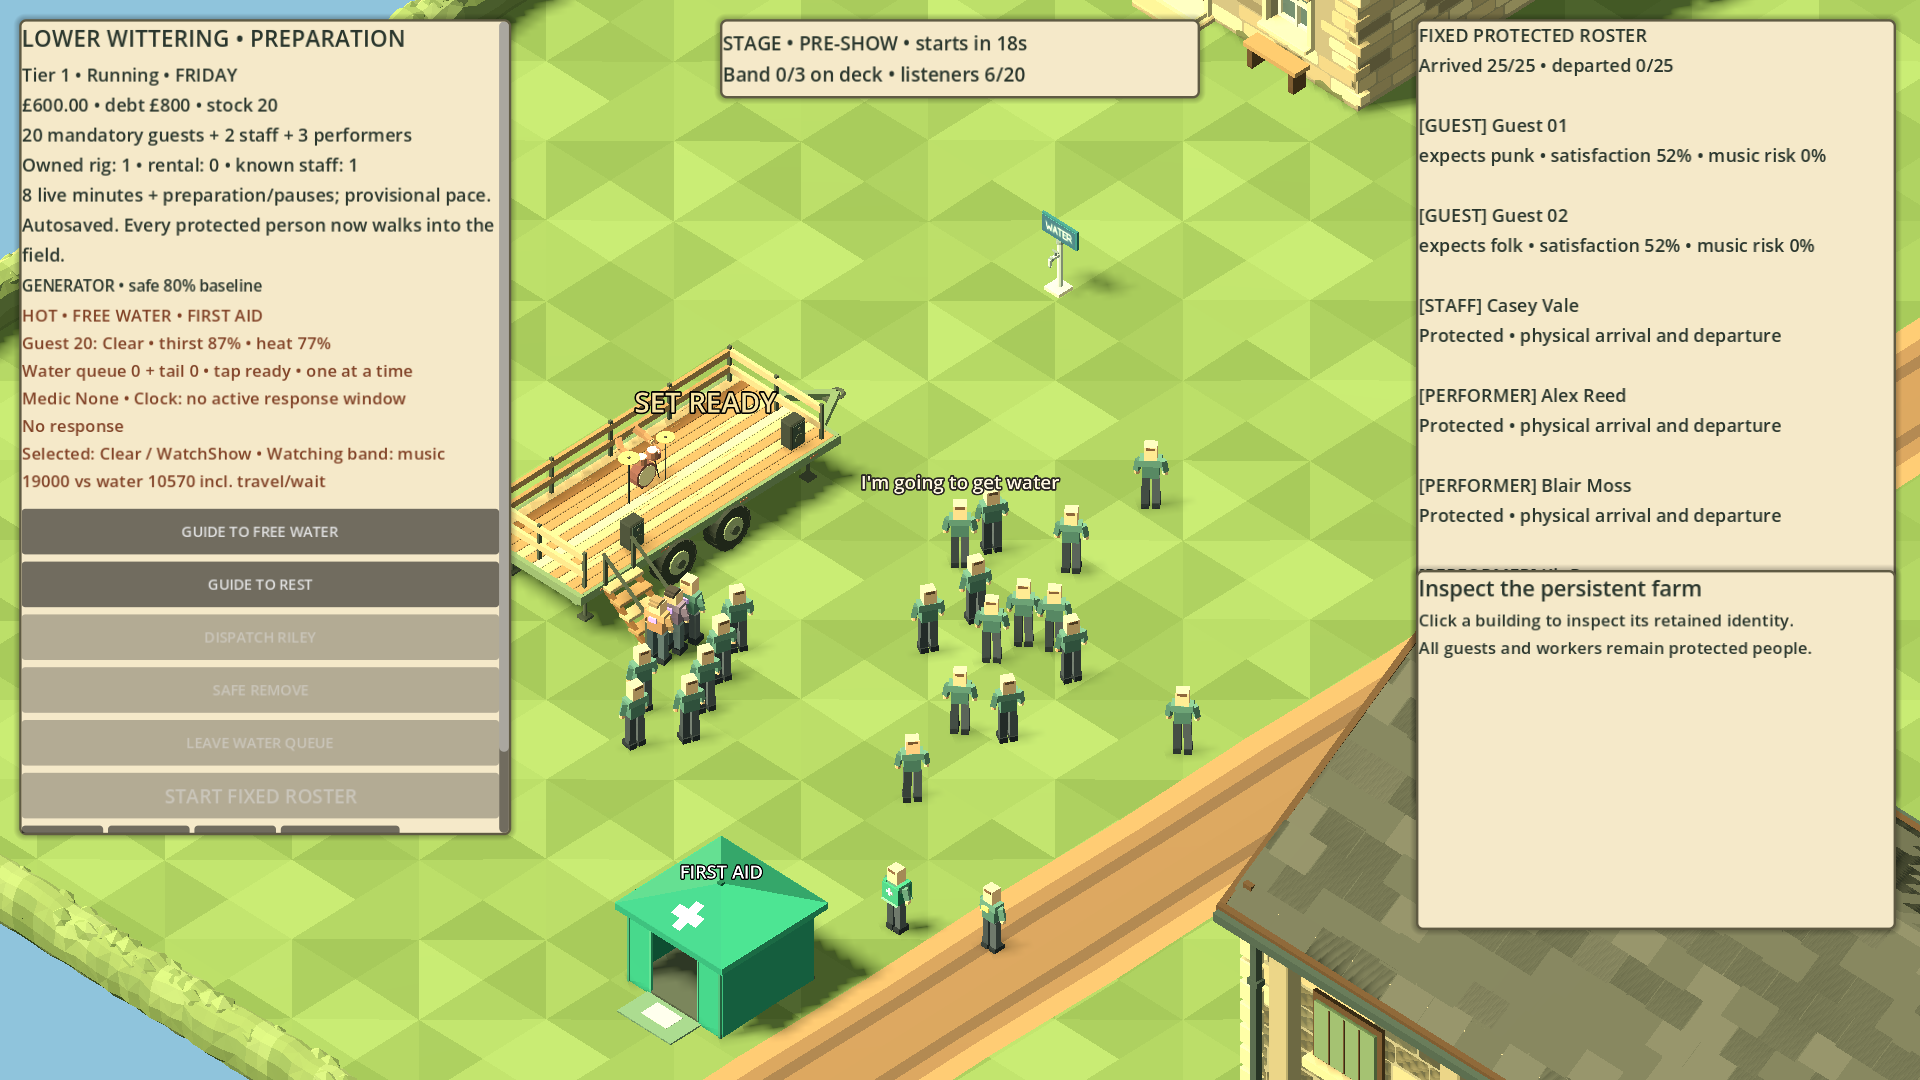
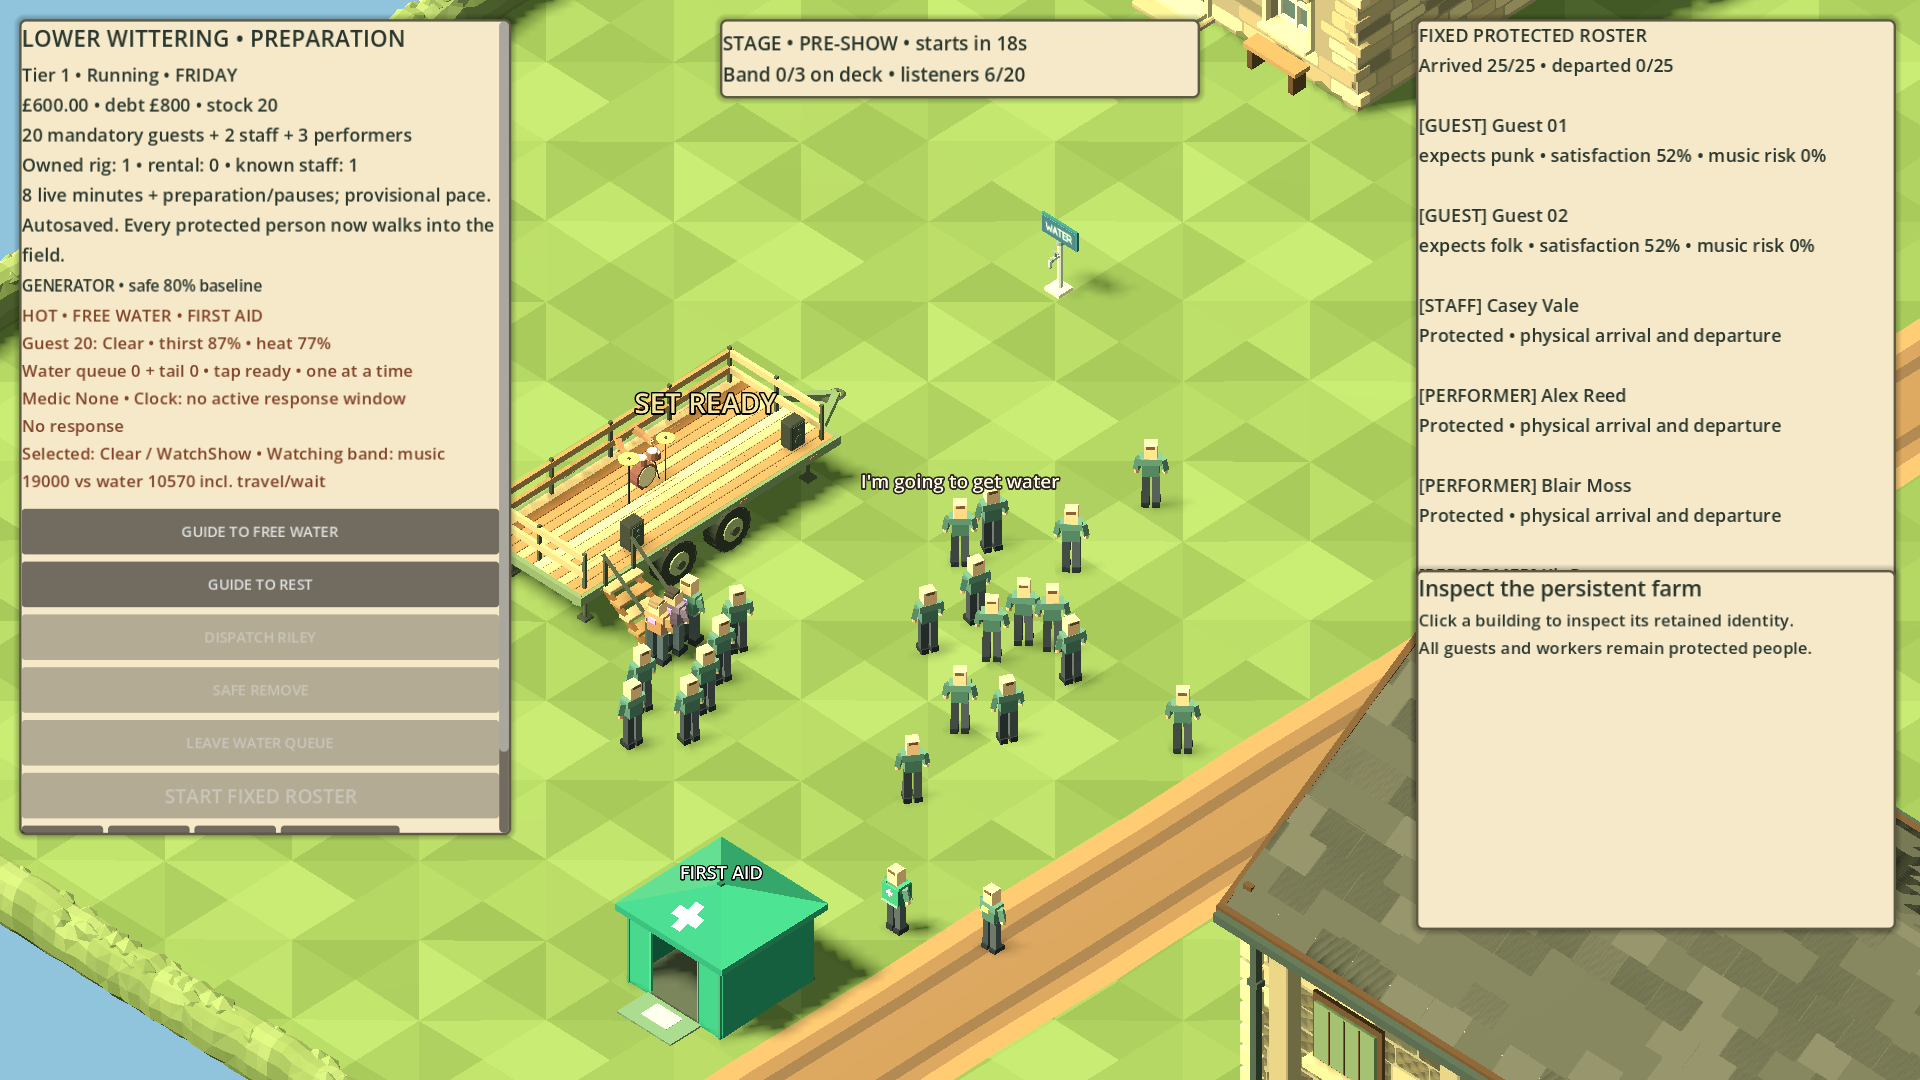
R0.03: retain cue transition until real decision

diff --git a/src/Festival.Simulation/MedicalCuePlanner.cs b/src/Festival.Simulation/MedicalCuePlanner.cs
@@ -78,11 +78,16 @@ public sealed class MedicalCuePlanner
                 _active.Remove(need.AgentId);
                 _pending.RemoveAll(item => item.AgentId == need.AgentId);
             }
-            else if (_previous.GetValueOrDefault(need.AgentId) != kind && kind != RoutineKind.None &&
-                     _previousDecisionTick.GetValueOrDefault(need.AgentId, long.MinValue) != need.LastDecisionTick)
+            else if (_previousDecisionTick.GetValueOrDefault(need.AgentId, long.MinValue) != need.LastDecisionTick &&
+                     _previous.GetValueOrDefault(need.AgentId) != kind && kind != RoutineKind.None)
                 candidates.Add(new(need.AgentId, kind, tick));
-            _previous[need.AgentId] = kind;
-            _previousDecisionTick[need.AgentId] = need.LastDecisionTick;
+            // A thirst-only threshold crossing may change today's classification,
+            // but it is not a new decision and must not consume the next bark.
+            if (_previousDecisionTick.GetValueOrDefault(need.AgentId, long.MinValue) != need.LastDecisionTick)
+            {
+                _previous[need.AgentId] = kind;
+                _previousDecisionTick[need.AgentId] = need.LastDecisionTick;
+            }
         }
         _lastObservedTick = tick;
         if (urgent.Count > 0)

diff --git a/tests/Festival.Tests/MedicalCuePlannerTests.cs b/tests/Festival.Tests/MedicalCuePlannerTests.cs
@@ -58,6 +58,14 @@ public sealed class MedicalCuePlannerTests
             ? item with { Thirst = 6_500 } : item).ToArray() };
         Assert.AreEqual(0, planner.Observe(thresholdOnly, 1).Count,
             "Thirst crossing the presentation threshold without a new decision must not bark.");
+        var decidedAfterThreshold = thresholdOnly with { Needs = thresholdOnly.Needs.Select(item => item.AgentId == tradeoffId
+            ? item with { LastDecisionTick = 2 } : item).ToArray() };
+        var firstRealTradeoff = planner.Observe(decidedAfterThreshold, 2);
+        Assert.AreEqual(tradeoffId, firstRealTradeoff.Single().AgentId,
+            "The first real show/water decision after a silent thirst crossing must still bark.");
+        planner.Reset(decidedAfterThreshold, 2);
+        Assert.AreEqual(0, planner.Observe(decidedAfterThreshold, 2).Count,
+            "Restoring that decision must not replay its bark.");
     }
 
     [TestMethod]

diff --git a/briefs/R0/PROGRESS.md b/briefs/R0/PROGRESS.md
@@ -17,7 +17,7 @@ Package status: **R0.00, R0.01, R0.02, R0.02a, R0.03, S0.00, S0.04 (P1), S0.05 (
 | S0.08 | Accepted bounded diagnostic — no correction implemented | [Result and independently reviewed evidence](../results/S0.08.md) | Full exported Release/no-capture: 0.999×, exact final autosave, rare unexplained 604 ms gap and separate save hitches; strict 60 FPS not accepted; further investigation or correction requires a decision |
 | R0.02 | Accepted bounded implementation | [Equipment chain, save tests and rendered evidence](../results/R0.02.md) | 43/43 tests; physical prevention/hearing verified. VSync-on/58 cap gave 0.9997× windowed and 0.99999× as a fresh project default, with no recurring ~264 ms gaps; user confirmed the new export looks better while panning. Four isolated hitches remain; exported-run metrics, input latency and wider-hardware performance remain unverified. No later brief authorized |
 | R0.02a | Accepted within bounded prototype limits | [Result, screenshots, measurements and frame-pacing diagnosis](../results/R0.02a.md) | Focused tests and rendered functional captures passed for the front-facing trailer, shared walking facing, timed band entry, mark-time instruments and fixed drum prop. The user provisionally approved Playtest 8 audio, with later loudness calibration. Fresh exported Release/VSync-on/58 foreground runs reached 0.9991× / 17.83 ms p95 (25 people) and 0.9981× / 17.89 ms p95 (45 people); 4 and 3 isolated >100 ms hitches remain. Tier 2's fixture flag was false because repair was five ticks short at the fixed 60-second end, not because of timing. Independent review found a stale-label/light bug on loading a pre-show save; the repair passed targeted re-review, build and Playtest 9 startup smoke. Larger-crowd capacity, full human pacing and final audio calibration remain open. R0.03 requires its own start decisions. |
-| R0.03 | Accepted base; water-line/overflow, approved painted-water-v4 and person-cue follow-ups implemented, review pending | [Medical chain and follow-up evidence](../results/R0.03.md) | Physical-arrival FIFO and visible overflow remain unchanged. Approved v4 painted sign is integrated. Misleading water-anchored `HOT • DISTRESS` world label removed; protected people now carry decision-triggered, globally throttled routine speech and persistent urgent distress/collapse cues. Three rendered cue locations and actor pick verified. **58/58** focused tests, including save/load and 50-person cue scheduling, plus isolated `r003-person-cues-1` Windows export/startup passed. Snapshot v5/save v9 unchanged. Rejected first-aid v1 untouched. Independent re-review, human exported playtest and wider pacing remain pending. No R0.04 work. |
+| R0.03 | Accepted base; water-line/overflow, approved painted-water-v4 and person-cue follow-ups implemented, re-review pending | [Medical chain and follow-up evidence](../results/R0.03.md) | Physical-arrival FIFO and visible overflow unchanged; approved v4 painted sign integrated. Water-anchored `HOT • DISTRESS` world label removed; people carry decision-triggered, globally throttled routine speech and persistent urgent cues. Review repair preserves the cue-kind transition through a silent thirst-threshold crossing until the next real decision. Three refreshed rendered cue locations and actor pick verified. **58/58** focused tests, including save/load and 50-person scheduling, plus fresh `r003-person-cues-review-2` Windows export/startup passed. Snapshot v5/save v9 unchanged. Rejected first-aid v1 untouched. Independent re-review, human exported playtest and wider pacing remain pending. No R0.04 work. |
 | R0.04 | Not started | None | Disorder chain and each required asset/proxy |
 | R0.05 | Not started | None | Favour/retry floor/community choice/safe closure decisions |
 | R0.06 | Not started | None | Safe reward/quality/score/final-endless decisions; all prior accepted |

diff --git a/reports/evidence/R0.03-person-cues/integration.md b/reports/evidence/R0.03-person-cues/integration.md
@@ -13,3 +13,9 @@ Each cue is a billboard label placed from the matching protected person's moving
 `dotnet build FestivalTycoon.sln --no-restore` and the `ExportRelease` game build passed with zero warnings/errors. The focused medical, cue, live-performance, preparation, equipment, farm and incident-audio set passed **58/58**. New tests cover transition-only routine speech, global spacing/single-visible budget, priority and persistence of guest/performer urgent cues, no bark on a thirst-only threshold crossing, safe reset from a restored distressed session, and 1,000 observations of 50 people under a two-second bound. Pinned Godot 4.7.2 rendered all three frames; the capture logged each cue's person ID and the successful actor pick.
 
[1 lines of base64/hex data omitted]
+
+## Independent-review repair: silent threshold before real decision
+
+Review found that the planner correctly stayed silent when thirst alone crossed the tradeoff display threshold, but incorrectly updated its remembered cue kind at that moment. The subsequent real `WatchShow` decision then appeared to have no kind transition and never spoke. The planner now advances its remembered decision-classified kind only when `LastDecisionTick` changes. The extended regression proves the threshold crossing is silent, the next real decision emits exactly the tradeoff cue, and a presentation reset/load does not replay it. The rest of the no-spam, cooldown, urgent-priority and 50-person tests remain green; the full focused set passed **58/58** with a zero-warning solution build.
+
[1 lines of base64/hex data omitted]

diff --git a/briefs/results/R0.03.md b/briefs/results/R0.03.md
@@ -76,3 +76,5 @@ The exact user/producer-approved v4 GLB from `710ab3d` now replaces the game's v
 ## Person-anchored medical cues, 25 September 2026
 
 The misleading water-anchored `HOT • DISTRESS` world label is removed; the HOT HUD still reports the incident. A presentation-only cue planner reads authoritative medical needs and decision timestamps, showing a globally spaced, single visible routine bark for an actual water/show choice while distress/collapse cues remain over affected guests and performers until resolution and preempt routine speech. The labels follow moving actor visuals, do not add pick collision, and reset cleanly on load. [Rendered tradeoff, water-seeking and distress locations, actor-pick evidence and export checks](../../reports/evidence/R0.03-person-cues/integration.md) passed with **58/58** focused tests, including no-spam, urgency/save-load and a bounded 50-person scheduling check. Fresh `r003-person-cues-1` Windows export/startup passed. No medical save/hash or simulation rules changed; independent re-review and human exported visual playtest remain pending.
+
+Independent review found a silent thirst-threshold crossing could consume the remembered cue-kind transition before the next actual decision. The [focused repair evidence](../../reports/evidence/R0.03-person-cues/integration.md#independent-review-repair-silent-threshold-before-real-decision) confirms the next recorded decision now speaks, while the threshold-only change and save/load replay remain silent. All **58/58** focused tests passed again, the three cue renders were refreshed, and fresh `r003-person-cues-review-2` Windows export/startup passed. No dialogue, audio, art, medical rule or save-schema expansion was needed.
